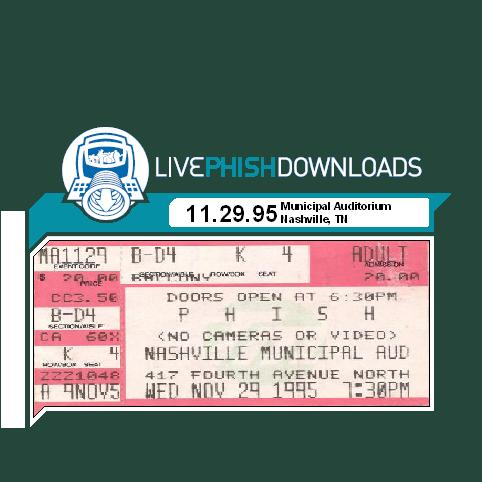
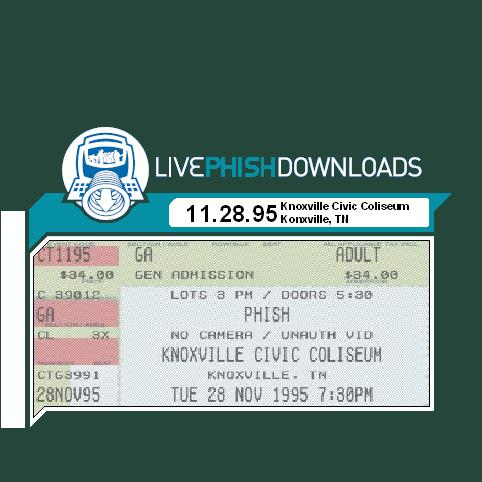
fix two album arts, show list rendering

Changed region(s): [[0.0622, 0.4979, 0.9025, 0.8714], [0.5913, 0.4046, 0.8402, 0.4668], [0.4668, 0.4357, 0.529, 0.4668]]

diff --git a/src/components/Main/Shows.js b/src/components/Main/Shows.js
@@ -1,8 +1,10 @@
 import React, { Component } from 'react';
 import { shows, showsByYear } from './../../api/phishin';
+import './../../css/Shows.css';
 
 const years = [
-  {"year": "1983-1987", "short": "83-87"},
+  {"year": "All", "short": "All", "era": "All"},
+  {"year": "1983-1987", "short": "83-87", "era": "1.0"},
   {"year": "1988", "short": "'88", "era": "1.0"},
   {"year": "1989", "short": "'89", "era": "1.0"},
   {"year": "1990", "short": "'90", "era": "1.0"},
@@ -30,14 +32,6 @@ const years = [
   {"year": "2017", "short": "'17", "era": "3.0"}
 ]
 
-const renderYears = years.map(function(year) {
-  return (
-    <li className="year-list-item" key={year.year}>
-      <span>{year.short}</span>
-    </li>
-  );
-});
-
 export default class Shows extends Component {
   constructor(props) {
     super(props);
@@ -50,10 +44,40 @@ export default class Shows extends Component {
   renderYears = () => {
     return years.map(function(year) {
       console.log(year);
+      if (year.year === "All") {
+        return (
+          <a onClick={() => {this.fetchShows()}} className="year-list-item" key={year.year}>
+            <span>{year.short}</span>
+          </a>
+        );
+      } else {
+        return (
+          <a onClick={() => {this.fetchShowByYear(year.year)}} className="year-list-item" key={year.year}>
+            <span>{year.short}</span>
+          </a>
+        );
+      }
+    }, this);
+  }
+
+  renderShows = (shows) => {
+    return shows.map(function (show) {
+      console.log(show);
       return (
-        <a onClick={() => {this.fetchShowByYear(year.year)}} className="year-list-item" key={year.year}>
-          <span>{year.short}</span>
-        </a>
+        <div key={show.id} className="image-container" onClick={(e) => console.log(show.date)}>
+          <img 
+            src={process.env.PUBLIC_URL + '/art/' + show.date + '.jpg'}
+            id={show.id}
+            
+          />
+          <p> {show.date}  </p>
+          <p> {show.venue_name} {show.location} </p>
+          <p> Likes: {show.likes_count} </p>
+
+          {show.remastered ? <p> Remastered: yes </p> : null}
+          {show.sbd ? <p> Soundboard: yes </p> : null}
+
+        </div>
       );
     }, this);
   }
@@ -96,6 +120,9 @@ export default class Shows extends Component {
         <ul className="year-list">
           {this.renderYears()} 
         </ul>
+        <div className="show-gallery">
+          {this.renderShows(shows)}
+        </div>
       </div>
     );
   }

diff --git a/src/components/Main/Show.js b/src/components/Main/Show.js
@@ -15,8 +15,7 @@ export default class Show extends Component {
     show(id).then(show => {
       if (show) {
         this.setState({
-          show: show,
-          image: process.env.PUBLIC_URL + '/art/' + show.date + '.jpg'
+          show: show
         })
       }
     });
@@ -32,11 +31,14 @@ export default class Show extends Component {
     this.fetchShow(this.props.match.params.id);
   }
 
-  getDefaultImage = () => {
-    this.setState({
-      image: process.env.PUBLIC_URL + '/art/default.jpg'
-    });
-  }
+  // Don't think we'll need to default to an image
+  // Every show should have a corresponding picture
+  // If we run into an error, add onError={() => {this.getDefaultImage()}} to image tag
+  // getDefaultImage = () => {
+  //   this.setState({
+  //     image: process.env.PUBLIC_URL + '/art/default.jpg'
+  //   });
+  // }
 
   render() {
     let show = this.state.show;
@@ -52,7 +54,10 @@ export default class Show extends Component {
     return (
       <div>
         <div className="show-overview">
-          <img onError={this.getDefaultImage} className="art" alt={show.date} src={this.state.image}/>
+          <img 
+            className="art" 
+            alt={show.date} src={process.env.PUBLIC_URL + '/art/' + show.date + '.jpg'}
+          />
           <div className="show-details">
             <p> test </p>
             <p> test1234234 </p>

diff --git a/src/css/Shows.css b/src/css/Shows.css
@@ -18,3 +18,71 @@
   object-fit: contain;
   width: 25%;
 }
+
+.year-list {
+  list-style-type: none;
+  margin: 0;
+  padding: 0;
+  overflow: hidden;
+  cursor: pointer;
+}
+
+.year-list-item {
+  float: left;
+  padding-right: 3px;
+}
+
+.show-gallery {
+  display: grid;
+  grid-template-columns: repeat(4, 1fr);
+  grid-gap: 8px;
+  max-width: 1200px;
+  width: 100%;
+  margin: 0 auto;
+  padding: 1rem;
+}
+
+.show-gallery img {
+  width: 100%;
+  transition: .5s ease;
+  opacity: 1;
+}
+
+.image-container {
+  text-align: center;
+}
+
+.show-gallery div {
+  position: relative;
+  cursor: pointer;
+  margin-bottom: 1rem;
+}
+
+.show-gallery div :before, :after {
+  transition: .3s opacity ease;
+  opacity: 0;
+}
+
+.show-gallery div :after {
+  font-size: 80px;
+  position: absolute;
+  transform: translate3d(-50%, -50%, 0) rotate(-45deg);
+  color: #fff;
+  left: 50%;
+  top: 50%;
+  display: block;
+}
+
+.show-gallery :before {
+  position: absolute;
+  top: 0;
+  left: 0;
+  right: 0;
+  background: rgba(#222, 0.5);
+  display: block;
+}
+
+.show-gallery :hover {
+  opacity: 1;
+  transition: .3s opacity ease;
+}

diff --git a/src/Routes.js b/src/Routes.js
@@ -8,8 +8,6 @@ const routes = (
   <div>
     <Route path="/show/:id" component={Show}/>
     <Route path="/shows" component={Shows}/>
-    <Route path="/venues" component={Show}/>
-    <Route path="/venues" component={Show}/>
     <Route path="/song/:id" component={Show}/>
   </div>
 );

diff --git a/src/css/Main.css b/src/css/Main.css
@@ -40,15 +40,3 @@ html > * {
   border-top: 1px solid #DDD;
   box-sizing: border-box;
 }
-
-.year-list {
-  list-style-type: none;
-  margin: 0;
-  padding: 0;
-  overflow: hidden;
-}
-
-.year-list-item {
-  float: left;
-  padding-right: 3px;
-}
